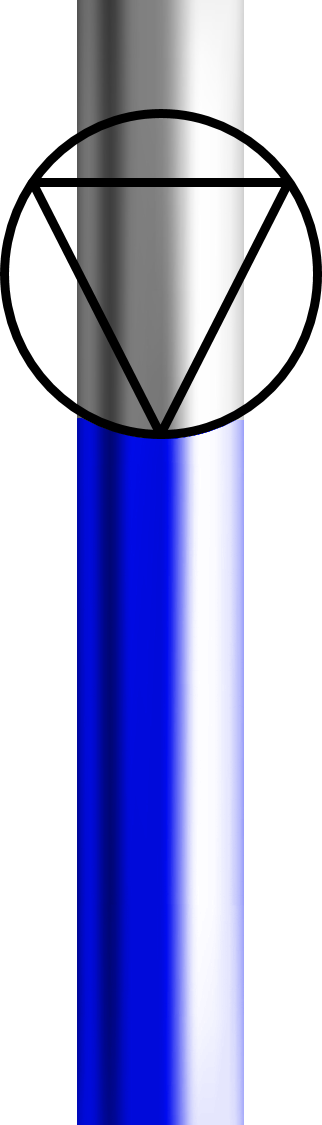
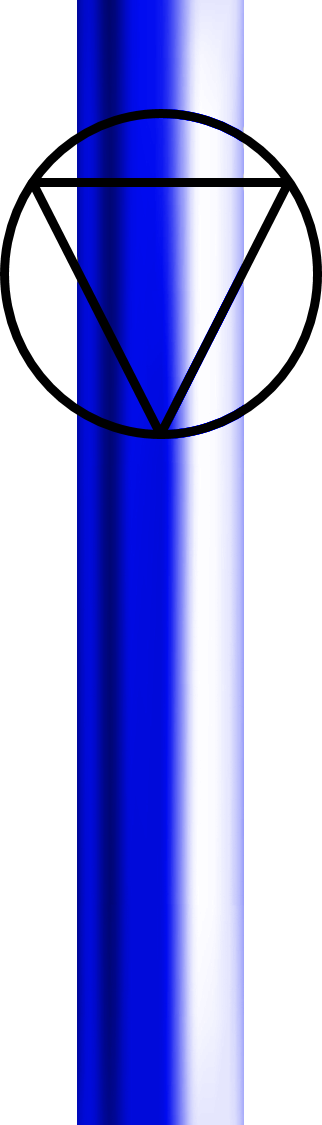
Final

Changed region(s): [[0.2174, 0.0, 0.6211, 0.4044], [0.7143, 0.0, 0.7764, 0.3733]]

diff --git a/app.js b/app.js
@@ -1,7 +1,10 @@
 $(document).ready(function(){
   $('select').formSelect();
 });
-
+var A;
+var B;
+var C;
+var D;
 const solventA=document.getElementById('outletA');
 const solventB=document.getElementById('outletB');
 const solventC=document.getElementById('outletC');
@@ -25,7 +28,11 @@ const stopA=document.getElementById('stopA');
 const stopB=document.getElementById('stopB');
 const stopC=document.getElementById('stopC');
 const stopD=document.getElementById('stopD');
-console.log(timerA);
+const pumpTopA=document.getElementById('yellow');
+const pumpTopB=document.getElementById('red');
+const pumpTopC=document.getElementById('green');
+const pumpTopD=document.getElementById('blue');
+
 loadEventListners();
 
 function loadEventListners(){
@@ -40,49 +47,119 @@ function loadEventListners(){
   stopD.addEventListener('click',stopDflow);
   reset.addEventListener('click',resetPage);
 }
+function changeA(){
+  var x=solventA.value
+  if(x==="-1"){
+    alert("Outlet already in Use");
+  } 
+  else{
+  // solventB.removeChild(solventB.children[x]);
+  // solventC.removeChild(solventC.children[x]);
+  // solventD.removeChild(solventD.children[x]);
 
+  solventB.children[x].value="-1";
+  solventC.children[x].value="-1";
+  solventD.children[x].value="-1";
+  }
+}
+
+function changeB(){
+  
+  var x=solventB.value
+  if(x==="-1"){
+    alert("Outlet already in Use");
+  } 
+  else{
+  // solventA.removeChild(solventA.children[x]);
+  // solventC.removeChild(solventC.children[x]);
+  // solventD.removeChild(solventD.children[x]);
+
+  solventA.children[x].value="-1";
+  solventD.children[x].value="-1";
+  solventC.children[x].value="-1";}
+
+}
+
+function changeC(){
+ 
+  var x=solventC.value
+  if(x==="-1"){
+    alert("Outlet already in Use");
+  } 
+  else{
+  // solventB.removeChild(solventB.children[x]);
+  // solventA.removeChild(solventA.children[x]);
+  // solventD.removeChild(solventD.children[x]);
+
+  solventA.children[x].value="-1";
+  solventB.children[x].value="-1";
+  solventD.children[x].value="-1";}
+
+}
+
+function changeD(){
+  
+  var x=solventD.value
+  if(x==="-1"){
+    alert("Outlet already in Use");
+  } 
+  else{
+  // solventB.removeChild(solventB.children[x]);
+  // solventC.removeChild(solventC.children[x]);
+  // solventA.removeChild(solventA.children[x]);
+
+  solventA.children[x].value="-1";
+  solventB.children[x].value="-1";
+  solventC.children[x].value="-1";}
+
+}
 function runA(){
   
-  if(solventA.value===""){
-    alert("Please select Outlet");
+  if(solventA.value==="" || timerA.value===""){
+    alert("Please Input Values");
   }
   else{
     display(btnA,stopA);
-    display(timerA,counterA);
+    // display(timerA,counterA);
+    pumpTopA.setAttribute('src',"images/topyellow.png")
   var outletA=document.querySelector(".outlet"+solventA.value);
-  outletA.setAttribute('src',"images/yellowPipe.png");}
-  runCounterA(Number(timerA.value));
+  outletA.setAttribute('src',"images/yellowPipe.png");
+  runCounterA(Number(timerA.value));}
 }
 function runB(){
-  
-  if(solventB.value===""){
-    alert("Please select Outlet");
+ 
+  if(solventB.value==="" ||timerB.value===""){
+    alert("Please Input Values");
   }
   else{
     display(btnB,stopB);
-    display(timerB,counterB);
+    // display(timerB,counterB);
+    pumpTopB.setAttribute('src',"images/topred.png")
   var outletB=document.querySelector(".outlet"+solventB.value);
-  outletB.setAttribute('src',"images/redPipe.png");}
-  runCounterB(Number(timerB.value));
+  outletB.setAttribute('src',"images/redPipe.png");
+  runCounterB(Number(timerB.value));}
 }
 function runC(){
-  if(solventC.value===""){
-    alert("Please select Outlet");
+  if(solventC.value==="" || timerC.value===""){
+    alert("Please Input Values");
   }
   else{
   display(btnC,stopC);
-  display(timerC,counterC);
+  // display(timerC,counterC);
+  pumpTopC.setAttribute('src',"images/topgreen.png")
   var outletC=document.querySelector(".outlet"+solventC.value);
   outletC.setAttribute('src',"images/greenPipe.png");
   runCounterC(Number(timerC.value));
 }
 }
 function runD(){
-  if(solventC.value===""){
-    alert("Please select Outlet");}
+  if(solventD.value==="" || timerD.value===""){
+    alert("Please Input Values");}
   else{
   display(btnD,stopD);
-  display(timerD,counterD);
+  // display(timerD,counterD);
+  pumpTopD.setAttribute('src',"images/topblue.png")
+
   var outletD=document.querySelector(".outlet"+solventD.value);
     outletD.setAttribute('src',"images/bluePipe.png");
     runCounterD(Number(timerD.value));
@@ -90,80 +167,102 @@ function runD(){
 
 function stopAflow(){
   display(stopA,btnA);
-  display(counterA,timerA);
+  // display(counterA,timerA);
+  pumpTopA.setAttribute('src',"images/pumpTopYellow.png")
   var outletA=document.querySelector(".outlet"+solventA.value);
   outletA.setAttribute('src',"images/pipe.png");
+  //remSecondsA=Number(timerA.value)+2;
+  clearInterval(A);
+  counterA.innerHTML=0;
   timerA.value="";
+  
 }
 function stopBflow(){
   display(stopB,btnB);
-    display(counterB,timerB);
+    //display(counterB,timerB);
+    pumpTopB.setAttribute('src',"images/pumpTopRed.png")
   var outletB=document.querySelector(".outlet"+solventB.value);
   outletB.setAttribute('src',"images/pipe.png");
+  clearInterval(B);
+  counterB.innerHTML=0;
   timerB.value="";
 }
 function stopCflow(){
   display(stopC,btnC);
-  display(counterC,timerC);
+  //display(counterC,timerC);
+  pumpTopC.setAttribute('src',"images/pumpTopGreen.png")
   var outletC=document.querySelector(".outlet"+solventC.value);
   outletC.setAttribute('src',"images/pipe.png");
+  clearInterval(C);
+     counterC.innerHTML=0;
   timerC.value="";
 }
 function stopDflow(){
   display(stopD,btnD);
-  display(counterD,timerD);
+ // display(counterD,timerD);
+  pumpTopD.setAttribute('src',"images/pumpTopBlue.png")
   var outletD=document.querySelector(".outlet"+solventD.value);
   outletD.setAttribute('src',"images/pipe.png");
+  clearInterval(D);
+  counterD.innerHTML=0;
   timerD.value="";
 }
+
 let remSecondsA=1;
 let remSecondsB=1;
 let remSecondsC=1;
 let remSecondsD=1;
 function runCounterA(time){
-  var x = setInterval(function() {
+   A = setInterval(function() {
   counterA.innerHTML = remSecondsA ;
   remSecondsA++;
-  if(remSecondsA===time+2){
-     stopAflow();
-     remSecondsA=1;
-     clearInterval(x);
-     counterA.innerHTML=0;
-  }  
+    
+   if(remSecondsA===time+2){
+      stopAflow();
+      remSecondsA=1;
+      clearInterval(A);
+      counterA.innerHTML=0;
+    }
+    //stopA.addEventListener('click',clearInterval(A));  
 }, 1000);
 }
+
+
+
+
+
 function runCounterB(time){
-  var x = setInterval(function() {
+   B = setInterval(function() {
   counterB.innerHTML = remSecondsB ;
   remSecondsB++;
   if(remSecondsB===time+2){
      stopBflow();
      remSecondsB=1;
-     clearInterval(x);
+     clearInterval(B);
      counterB.innerHTML=0;
   }  
 }, 1000);
 }
 function runCounterC(time){
-  var x = setInterval(function() {
+   C = setInterval(function() {
   counterC.innerHTML = remSecondsC ;
   remSecondsC++;
   if(remSecondsC===time+2){
      stopCflow();
      remSecondsC=1;
-     clearInterval(x);
+     clearInterval(C);
      counterC.innerHTML=0;
   }  
 }, 1000);
 }
 function runCounterD(time){
-  var x = setInterval(function() {
+   D = setInterval(function() {
   counterD.innerHTML = remSecondsD ;
   remSecondsD++;
   if(remSecondsD===time+2){
      stopDflow();
      remSecondsD=1;
-     clearInterval(x);
+     clearInterval(D);
      counterD.innerHTML=0;
   }  
 }, 1000);
@@ -202,6 +301,6 @@ function runCounterD(time){
 
 
 function resetPage(){
-       
+     location.reload();  
 }
 loadEventListners();

diff --git a/index.html b/index.html
@@ -19,13 +19,13 @@
              <h5 class="a">A</h5>
            <div id="top" class="container top col s12 m9 offset-m2">
             
-             <img src="images/topyellow.png" id="yellow" class="col s3 m2 pipe" alt="Solvent A">
+             <img src="images/pumpTopYellow.png" id="yellow" class="col s3 m2 pipe" alt="Solvent A">
              <h5 class="b">B</h5>             
-             <img src="images/topred.png" id="red" class="col s3 m2 pipe " alt="Solvent B">
+             <img src="images/pumpTopRed.png" id="red" class="col s3 m2 pipe " alt="Solvent B">
              <h5 class="c">C</h5> 
-             <img src="images/topgreen.png" id="green" class="col s3 m2 pipe " alt="Solvent C">
+             <img src="images/pumpTopGreen.png" id="green" class="col s3 m2 pipe " alt="Solvent C">
              <h5 class="d">D</h5>
-             <img src="images/topblue.png" id="blue" class="col s3 m2 pipe " alt="Solvent D">    
+             <img src="images/pumpTopBlue.png" id="blue" class="col s3 m2 pipe " alt="Solvent D">    
                  
             </div>
             <div id="middle" class="container  ">
@@ -40,7 +40,7 @@
                 <h5 class="p5">5</h5><img src="images/pipe.png" class="col s1 m1 outlet5 opipe" alt="outlet">
                 <h5 class="p6">6</h5><img src="images/pipe.png" class="col s1 m1 outlet6 opipe" alt="outlet">
                 <h5 class="p7">7</h5><img src="images/pipe.png" class="col s1 m1 outlet7 opipe" alt="outlet">
-                <h5 class="p8">8</h5> <img src="images/pipe.png" class="col s1 m1outlet8 opipe" alt="outlet">                
+                <h5 class="p8">8</h5> <img src="images/pipe.png" class="col s1 m1 outlet8 opipe" alt="outlet">                
             </div>
         </div>
 
@@ -62,7 +62,7 @@
             </div>  -->
             <!-- Multiple select dropdown for outlet -->
             <div class="input-field col s7">
-                <select id="outletA">
+                <select id="outletA" onchange="changeA()">
                   <option value="" disabled selected>Outlet</option>
                   <option value="1">Outlet 1</option>
                   <option value="2">Outlet 2</option>
@@ -75,14 +75,14 @@
                 </select>
                 <label>Solvent A</label>
               </div>
-              <input type="number" class="col s2" id="secondsA" placeholder="Seconds">
-              <div class="col s2 counterA">0</div>
+              <input type="number" class="col s1" id="secondsA" placeholder="Qty">
+              <div class="col s1 counterA">0</div>
               <button class="btn col s2 grey btnA" id="btnA">Run</button>
               <button class="btn col s2  red stop" id="stopA">Stop</button>
               
               
               <div class="input-field col s7 ">
-                <select id="outletB">
+                <select id="outletB" onchange="changeB()">
                   <option value="" disabled selected>Outlet</option>
                   <option value="1">Outlet 1</option>
                   <option value="2">Outlet 2</option>
@@ -95,13 +95,13 @@
                 </select>
                 <label>Solvent B</label>
               </div>              
-              <input type="number" class="col s2" id="secondsB" placeholder="Seconds">
-              <div class="col s2 counterB">0</div>
+              <input type="number" class="col s1" id="secondsB" placeholder="Qty">
+              <div class="col s1 counterB">0</div>
               <button class="btn col s2 grey btnB" id="btnB">Run</button>
               <button class="btn col s2 red stop" id="stopB">Stop</button>
               
               <div class="input-field col s7">
-                <select id="outletC">
+                <select id="outletC" onchange="changeC()">
                   <option value="" disabled selected>Outlet</option>
                   <option value="1">Outlet 1</option>
                   <option value="2">Outlet 2</option>
@@ -114,13 +114,13 @@
                 </select>
                 <label>Solvent C</label>
               </div> 
-              <input type="number" class="col s2" id="secondsC" placeholder="Seconds">
-              <div class="col s2 counterC">0</div>
+              <input type="number" class="col s1" id="secondsC" placeholder="Qty">
+              <div class="col s1 counterC">0</div>
               <button class="btn col s2  grey btnC" id="btnC">Run</button>
               <button class="btn col s2  red  stop" id="stopC">Stop</button>
 
               <div class="input-field col s7">
-                <select id="outletD">
+                <select id="outletD" onchange="changeD()">
                   <option value="" disabled selected>Outlet</option>
                   <option value="1">Outlet 1</option>
                   <option value="2">Outlet 2</option>
@@ -133,8 +133,8 @@
                 </select>
                 <label>Solvent D</label>
               </div>              
-              <input type="number" class="col s2" id="secondsD" placeholder="Seconds"> 
-              <div class="col s2 counterD">0</div>
+              <input type="number" class="col s1" id="secondsD" placeholder="Qty"> 
+              <div class="col s1 counterD">0</div>
               <button class="btn col s2 grey btnD" id="btnD">Run</button>
               <button class="btn col s2 red stop" id="stopD">Stop</button> 
               

diff --git a/style.css b/style.css
@@ -74,6 +74,6 @@ body{
 .counterA,.counterB,.counterC,.counterD{
     font-size:x-large;
     margin-top:5%;
-    display: none;   
+       
     
 }
